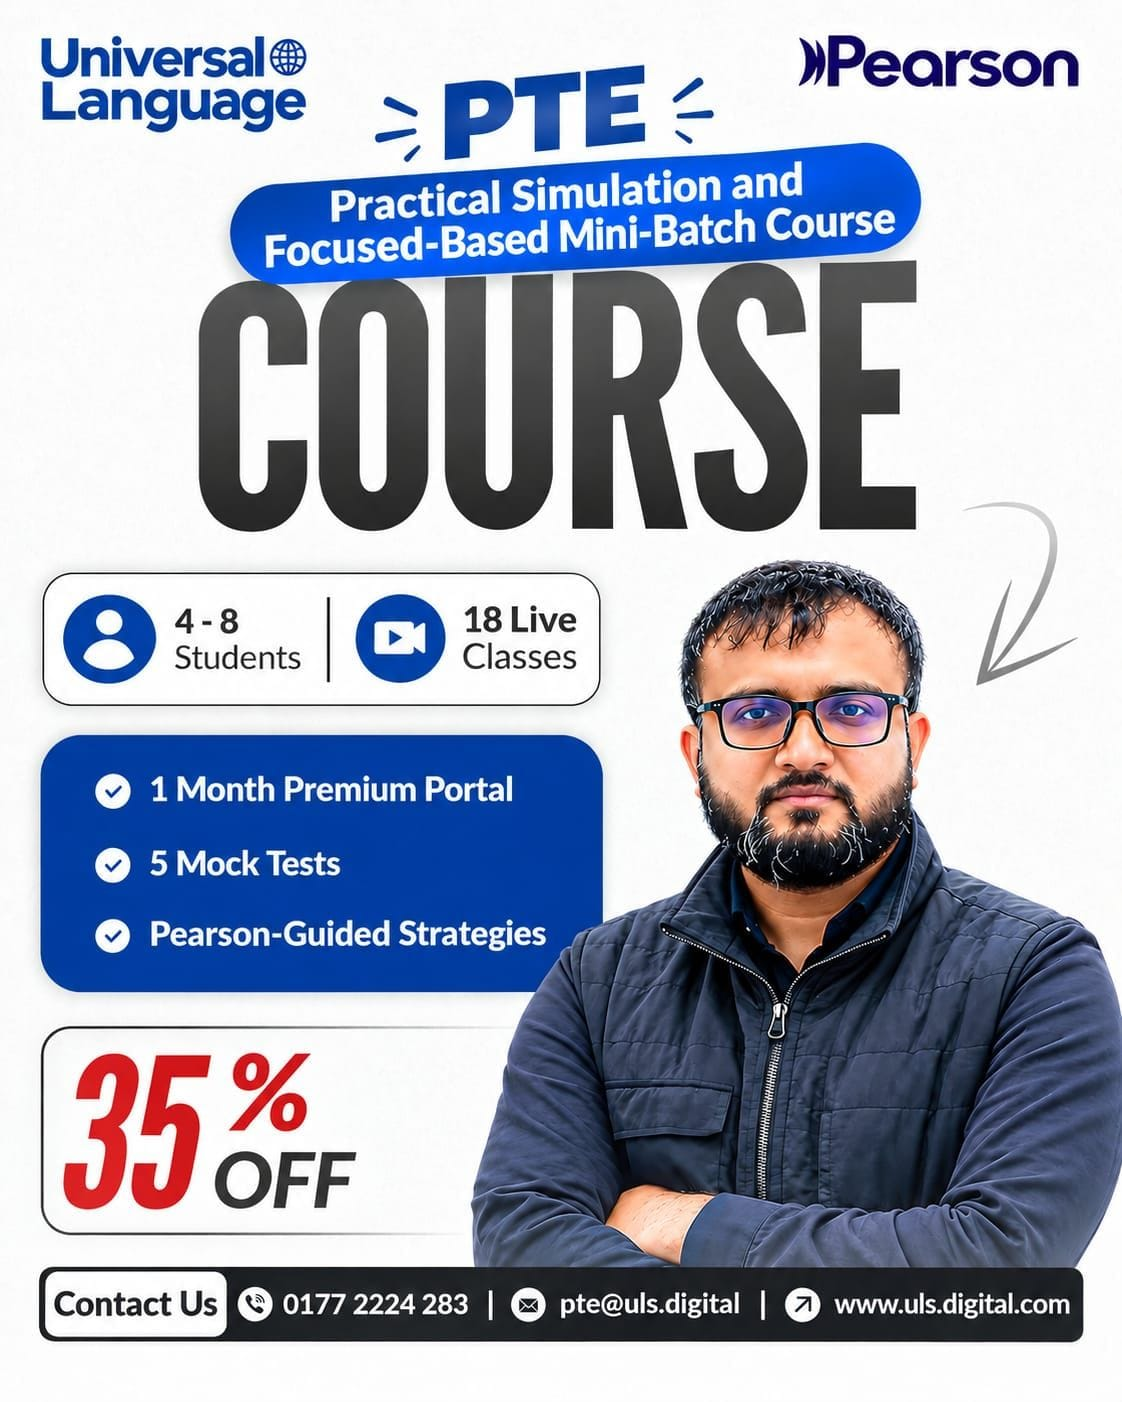
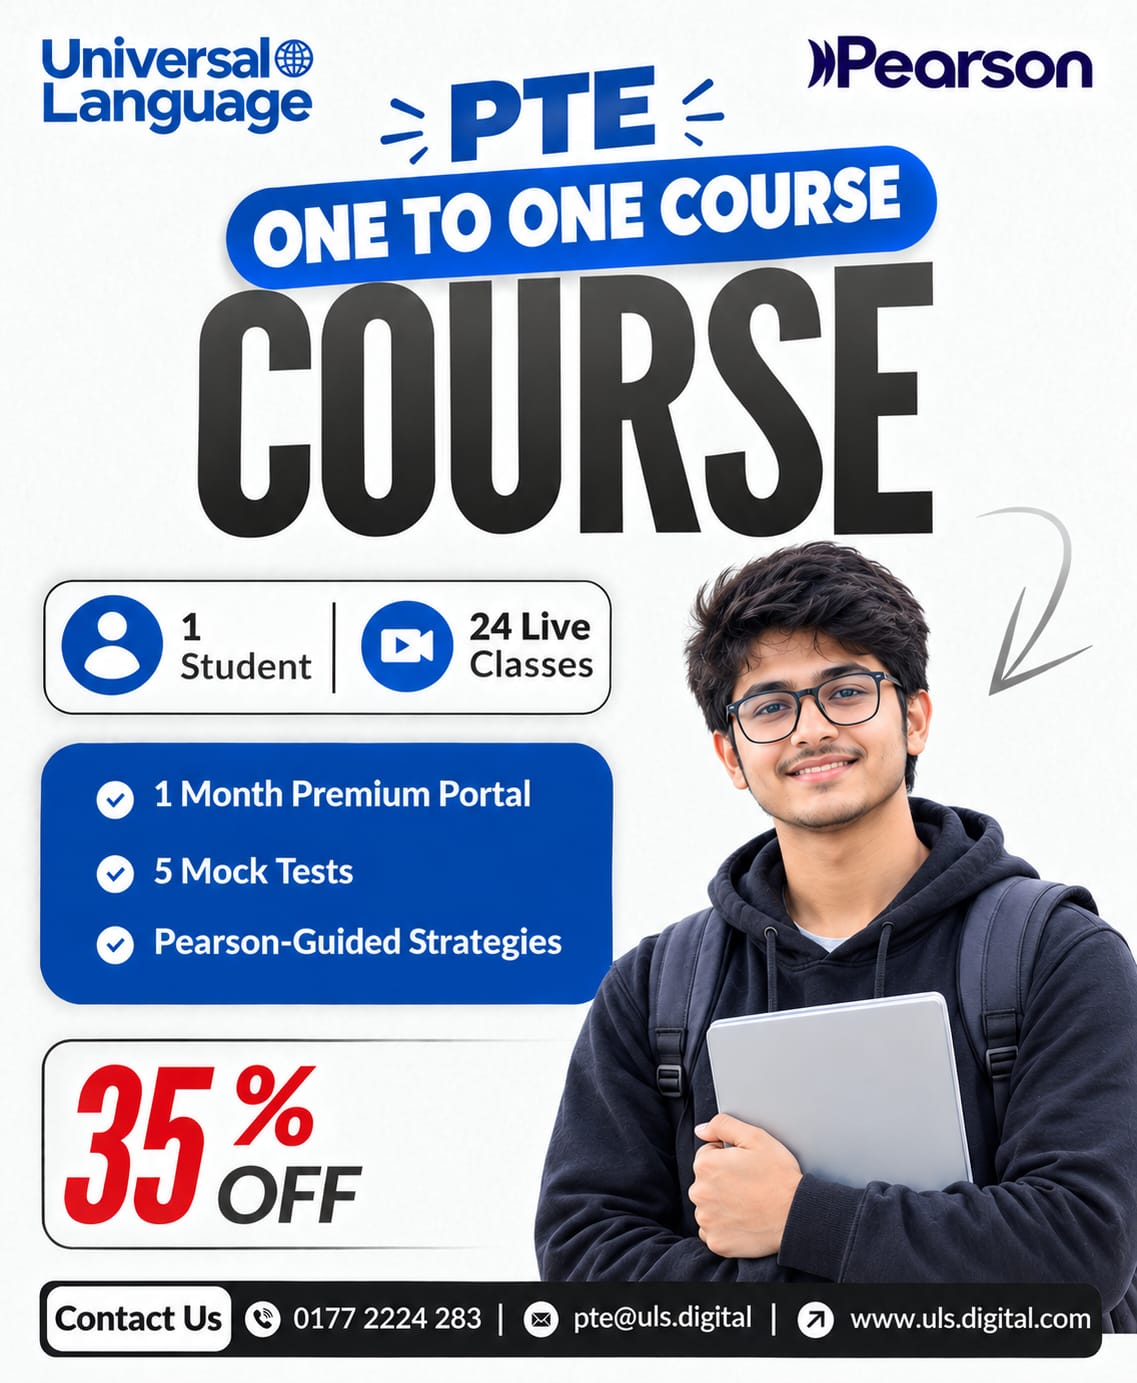
feat: add promo popup modal and promotional slider components with new images

diff --git a/src/components/modules/home/promo-slider.tsx b/src/components/modules/home/promo-slider.tsx
@@ -30,28 +30,37 @@ export const POSTER_SLIDES: PosterSlide[] = [
     id: 1,
     title: "PTE Premium Course",
     badge: "35% Special Discount",
-    tag: "Pearson Certified Strategy",
-    image: "/images/dic-image-1.jpeg",
+    tag: "Focused Mini-Batch (4-8 Students)",
+    image: "/images/dic-image-1.jpeg?v=20261003",
     alt: "PTE Premium Course at Universal Language with 35% Discount - 18 Live Classes, 4-8 Students, 5 Mock Tests",
     discountText: "35% OFF • 18 Live Classes • 4-8 Students • 5 Mock Tests",
   },
   {
     id: 2,
-    title: "PTE Practical Simulation & Focused Course",
+    title: "PTE One to One Course",
     badge: "35% Special Discount",
-    tag: "Focused-Based Mini-Batch",
-    image: "/images/dic-image-2.jpeg",
-    alt: "PTE Practical Simulation and Focused-Based Mini-Batch Course with 35% Discount at Universal Language",
-    discountText: "35% OFF • 1 Month Premium Portal • Pearson Guided Strategies",
+    tag: "Personalized 1-on-1 Mentorship",
+    image: "/images/dic-image-2.jpeg?v=20261003",
+    alt: "PTE One to One Course at Universal Language with 35% Discount - 24 Live Classes, 1 Student, 5 Mock Tests",
+    discountText: "35% OFF • 24 Live Classes • 1 Student • 5 Mock Tests",
   },
   {
     id: 3,
-    title: "PTE Simulation & Mini-Batch Masterclass",
+    title: "PTE Crash Course",
     badge: "35% Special Discount",
-    tag: "Pearson Certified Partner",
-    image: "/images/dic-image-3.jpeg",
-    alt: "Official Pearson Partner PTE Focused-Based Mini-Batch Course with 35% Discount",
-    discountText: "35% OFF • 18 Live Classes • 1 Month Portal • 5 Mock Tests",
+    tag: "Fast-Track Mini-Batch (2-3 Students)",
+    image: "/images/dic-image-3.jpeg?v=20261003",
+    alt: "PTE Crash Course at Universal Language with 35% Discount - 18 Live Classes, 2-3 Students, 5 Mock Tests",
+    discountText: "35% OFF • 18 Live Classes • 2-3 Students • 5 Mock Tests",
+  },
+  {
+    id: 4,
+    title: "Official PTE Exam Registration",
+    badge: "৳500 Instant Discount",
+    tag: "Pearson Authorized Test Center",
+    image: "/images/dialog-image-new.jpeg?v=20261003",
+    alt: "Official Pearson PTE Exam Registration at Universal Language - BDT 25,500 (Regular BDT 26,000)",
+    discountText: "BDT 25,500 (Reg. 26,000) • Official Slot Booking Support",
   },
 ];
 
@@ -60,11 +69,12 @@ const AUTOPLAY_INTERVAL = 6000; // ms
 // Function to generate the dedicated WhatsApp enrollment link with the selected course flyer
 function getWhatsAppEnrollUrl(slide: PosterSlide) {
   const phoneNumber = "8801772224283";
+  const cleanImagePath = slide.image.split("?")[0];
   const message = [
-    `Hello Universal Language, I want to enroll in this course:`,
-    `📚 Course: ${slide.title}`,
+    `Hello Universal Language, I want to enroll in / book this offer:`,
+    `📚 Program: ${slide.title}`,
     `🎯 Offer: ${slide.badge} (${slide.discountText})`,
-    `🖼 Selected Flyer: https://universallanguagebd.com${slide.image}`,
+    `🖼 Selected Flyer: https://universallanguagebd.com${cleanImagePath}`,
     `Please share the batch schedule, enrollment process, and fee details.`,
   ].join("\n");
 
@@ -175,6 +185,7 @@ export function PromoSlider({ className }: { className?: string }) {
                     alt={slide.alt}
                     fill
                     priority={idx === 0}
+                    unoptimized
                     sizes="(max-width: 768px) 100vw, 470px"
                     className="object-contain w-full h-full transition-transform duration-500 group-hover/poster:scale-[1.01]"
                   />
@@ -250,7 +261,11 @@ export function PromoSlider({ className }: { className?: string }) {
             >
               <path d="M12.031 6.172c-3.181 0-5.767 2.586-5.768 5.766-.001 1.298.38 2.27 1.019 3.287l-.582 2.128 2.182-.573c.978.58 1.911.928 3.145.929 3.178 0 5.767-2.587 5.768-5.766.001-3.187-2.575-5.77-5.764-5.771zm3.392 8.244c-.144.405-.837.774-1.17.824-.299.045-.677.063-1.092-.069-.252-.08-.575-.187-.988-.365-1.739-.751-2.874-2.502-2.961-2.617-.087-.116-.708-.94-.708-1.793s.448-1.273.607-1.446c.159-.173.346-.217.462-.217l.332.006c.106.005.249-.04.39.298.144.347.491 1.2.534 1.287.043.087.072.188.014.304-.058.116-.087.188-.173.289l-.26.304c-.087.086-.177.18-.076.354.101.174.449.741.964 1.201.662.591 1.221.774 1.394.86.173.086.275.072.376-.044.101-.116.433-.506.549-.68.116-.173.231-.145.39-.086s1.011.477 1.184.564.289.13.332.202c.045.072.045.419-.099.824zm-3.423-10.416c-5.522 0-10 4.477-10 10 0 1.769.459 3.498 1.338 5.023l-1.422 5.195 5.344-1.401c1.465.799 3.117 1.22 4.74 1.22 5.523 0 10-4.478 10-10 0-5.523-4.477-10-10-10z" />
             </svg>
-            <span>Enroll via WhatsApp (Claim 35% Discount)</span>
+            <span>
+              {activeSlide.id === 4
+                ? "Book Exam via WhatsApp (Claim ৳500 Discount)"
+                : "Enroll via WhatsApp (Claim 35% Discount)"}
+            </span>
             <ArrowRight className="w-4 h-4 shrink-0 transition-transform duration-300 group-hover/cta:translate-x-1" />
           </a>
         </div>

diff --git a/src/components/modules/home/promo-popup-modal.tsx b/src/components/modules/home/promo-popup-modal.tsx
@@ -37,11 +37,11 @@ export function PromoPopupModal() {
   // WhatsApp link with selected course flyer details
   const phoneNumber = "8801772224283";
   const whatsappMessage = [
-    "Hello Universal Language! I saw your Duolingo English Test (DET) course catalog on your website popup:",
-    "📚 Program: Duolingo English Test Product Catalog",
-    "🎯 Available Packages: Full Course (BDT 15,000) | Premium 1-to-1 (BDT 20,000) | Exam Purchase Support (BDT 10,000)",
+    "Hello Universal Language! I saw your Official PTE Exam Registration offer on your website popup:",
+    "📚 Program: Pearson PTE Academic Exam Registration",
+    "🎯 Offer: BDT 25,500 (Regular BDT 26,000 - Instant BDT 500 Discount)",
     "🖼 Selected Flyer: https://universallanguagebd.com/images/dialog-image-new.jpeg",
-    "I would like to enroll / inquire about the Duolingo English Test preparation. Please guide me.",
+    "I would like to book my official PTE exam slot. Please guide me through the registration process.",
   ].join("\n");
 
   const whatsappEnrollUrl = `https://wa.me/${phoneNumber}?text=${encodeURIComponent(
@@ -53,7 +53,7 @@ export function PromoPopupModal() {
       className="fixed inset-0 z-[100000] flex items-center justify-center p-4 sm:p-6"
       role="dialog"
       aria-modal="true"
-      aria-label="Duolingo English Test Catalog Offer"
+      aria-label="Pearson PTE Exam Registration Offer"
     >
       {/* Softer, lighter backdrop with subtle blur (Clicking outside closes modal) */}
       <div
@@ -84,13 +84,14 @@ export function PromoPopupModal() {
           rel="noopener noreferrer"
           onClick={handleClose}
           className="block relative aspect-square w-full cursor-pointer group select-none transition-transform duration-300 hover:scale-[1.01]"
-          title="Click to open WhatsApp and inquire about Duolingo English Test"
+          title="Click to open WhatsApp and book PTE Exam Registration"
         >
           <Image
-            src="/images/dialog-image-new.jpeg"
-            alt="Universal Language Duolingo English Test Product Catalog"
+            src="/images/dialog-image-new.jpeg?v=20261003"
+            alt="Universal Language Official Pearson PTE Exam Registration Offer"
             fill
             priority
+            unoptimized
             sizes="(max-width: 768px) 90vw, 430px"
             className="object-contain w-full h-full"
           />
